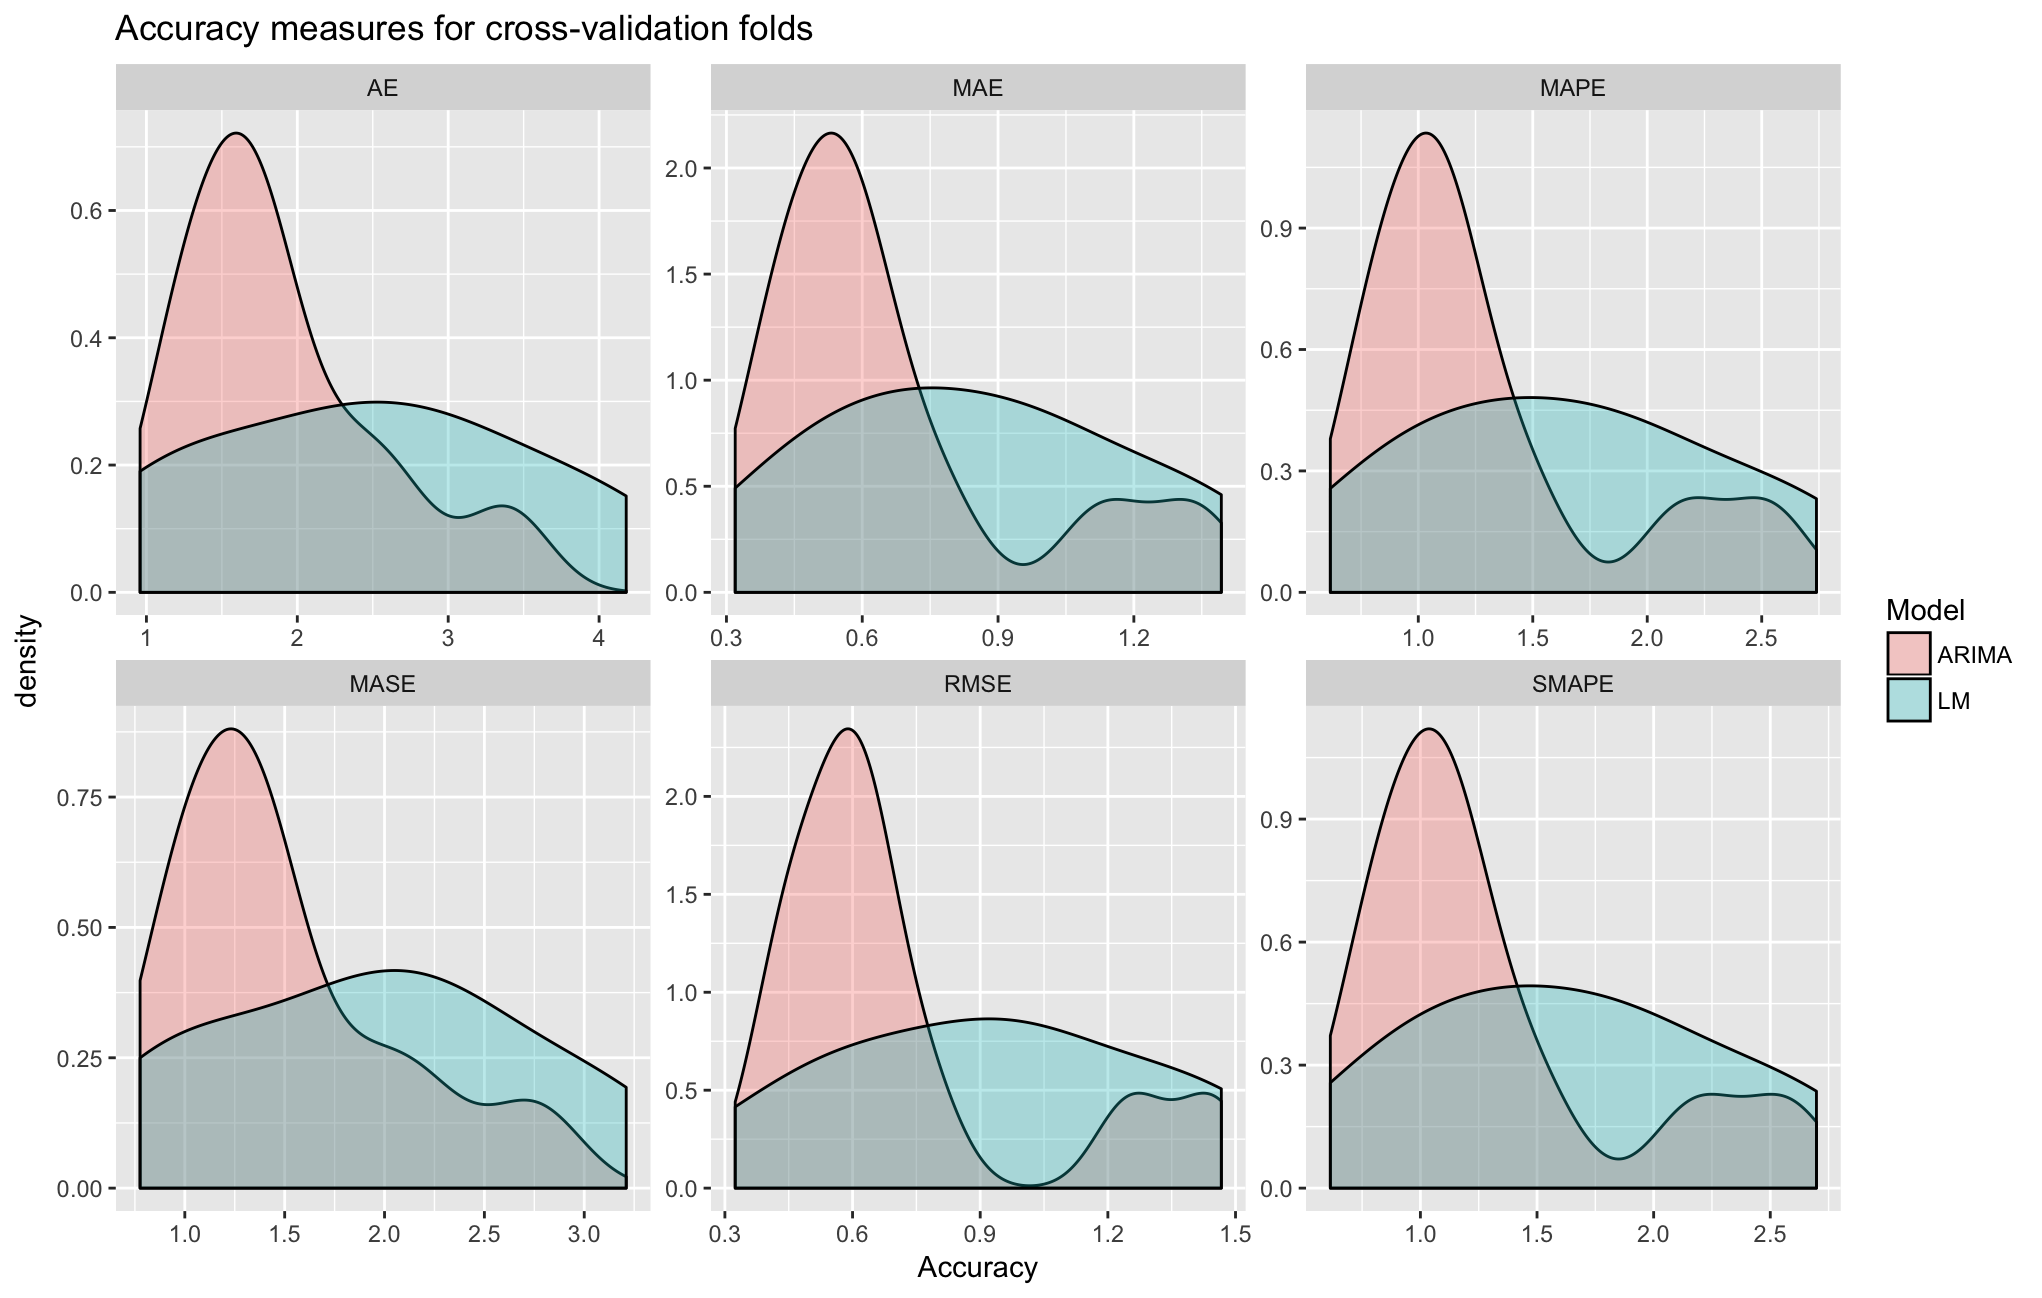
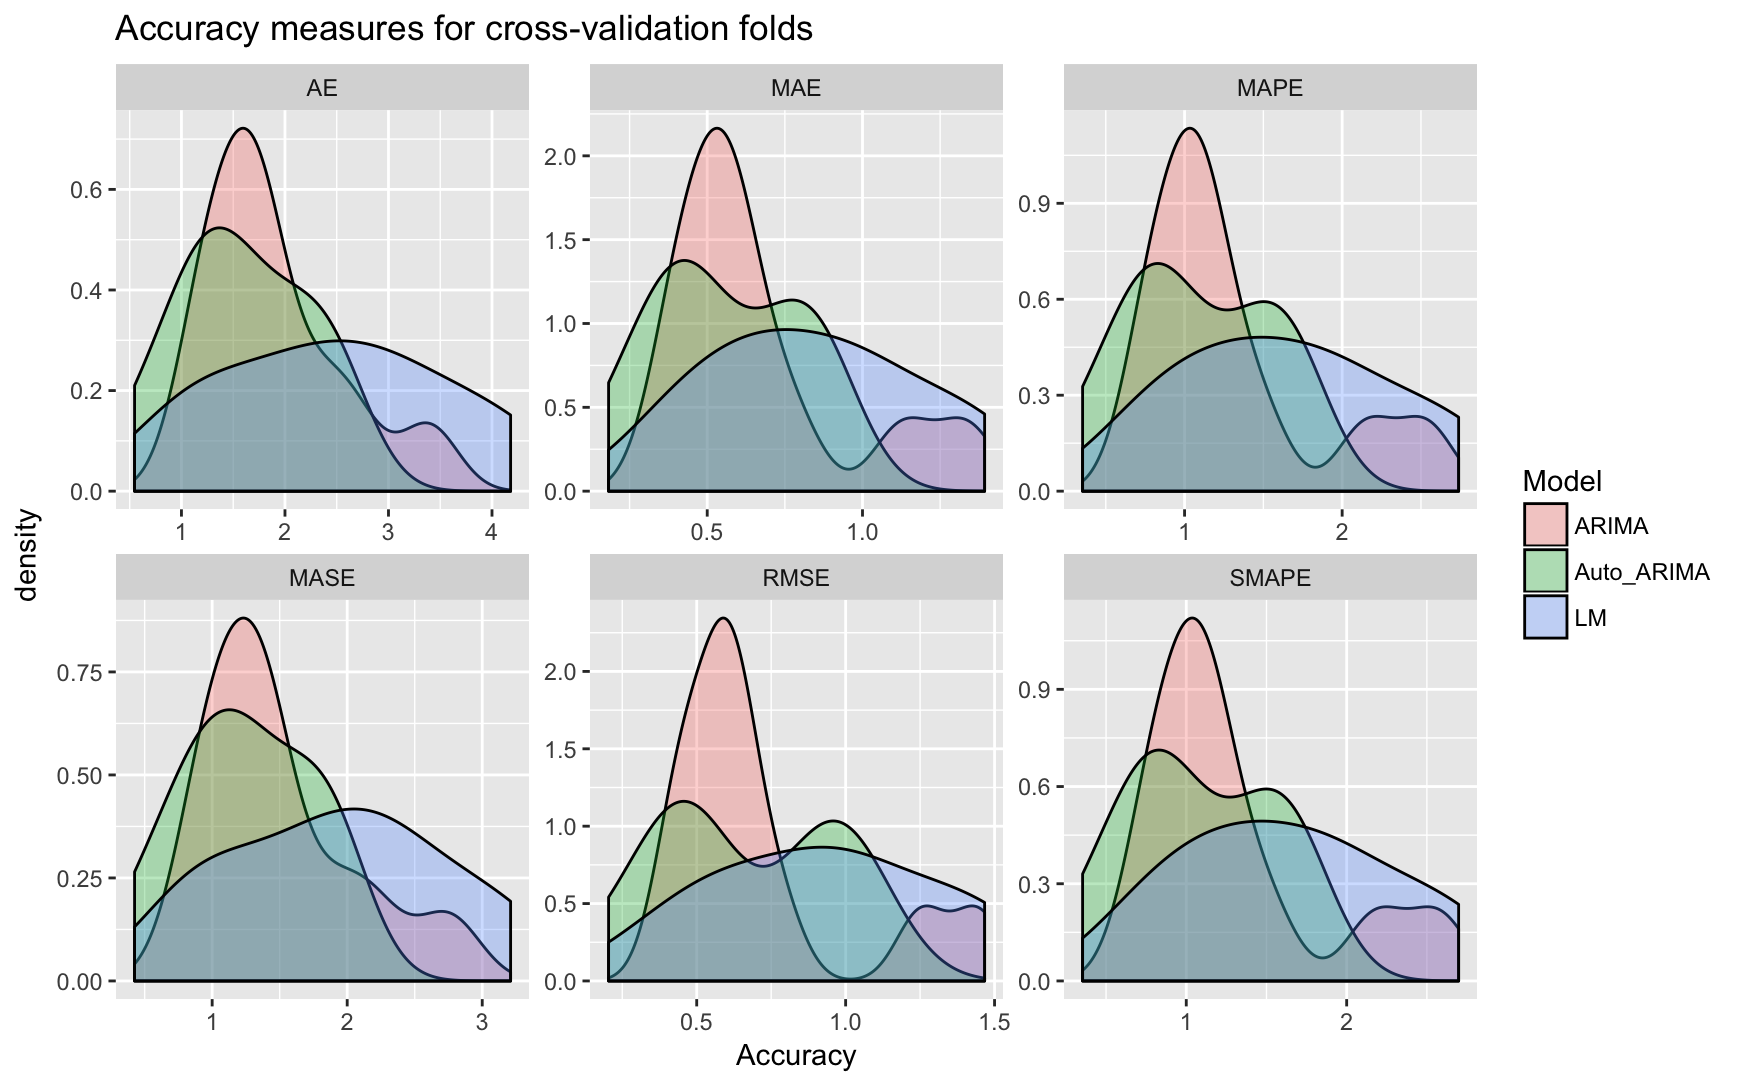
Add auto arima to time-series example.

diff --git a/README.md b/README.md
@@ -105,8 +105,10 @@ data = data.frame(Year = time(nhtemp),
 validatr(data, data_type = "ts", start = 1960, horizon = 3, shift = 1,
          ts = "Year") %>% 
     fit_models(ARIMA = Arima(train$Temp),
+               Auto_ARIMA = auto.arima(train$Temp),
                LM = lm(Temp ~ Year, data = train)) %>% 
     calc_predictions(ARIMA = as.numeric(forecast(ARIMA, h = nrow(validation))$mean),
+                     Auto_ARIMA = as.numeric(forecast(Auto_ARIMA, h = nrow(validation))$mean),
                      LM = predict(LM, newdata = validation)) %>% 
     calc_accuracy(y = "Temp", average_folds = FALSE) %>% 
     autoplot()
